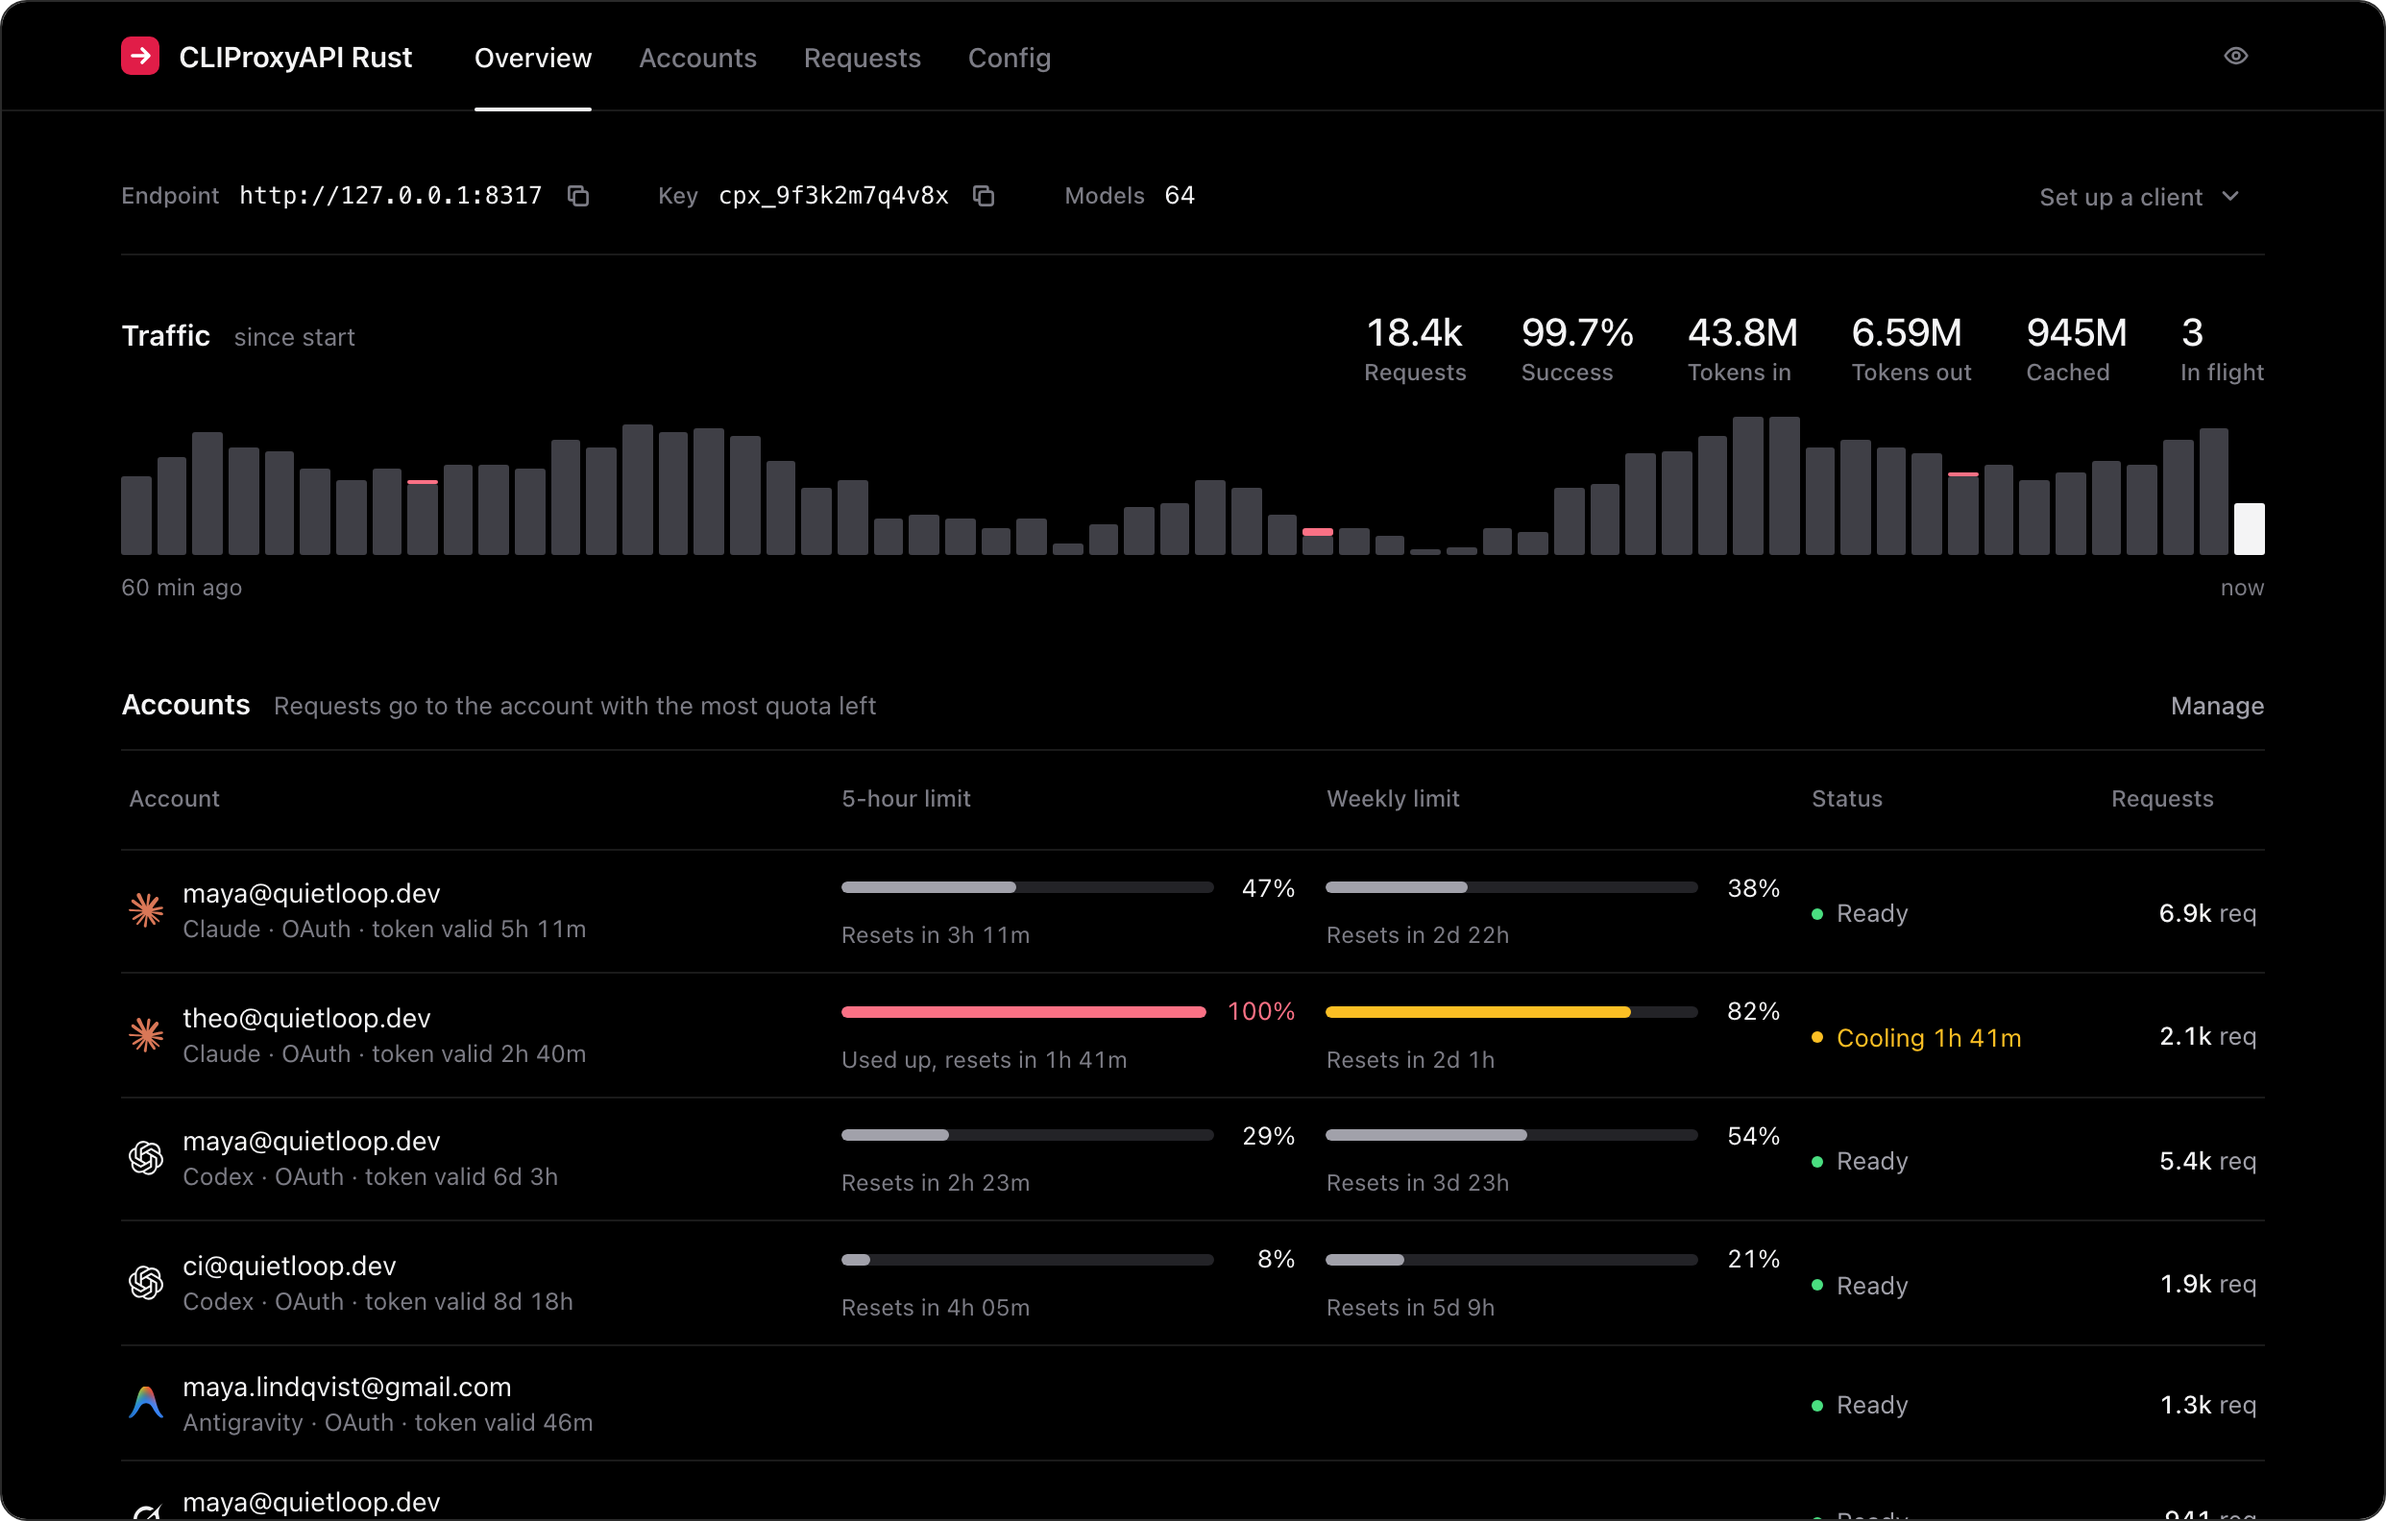
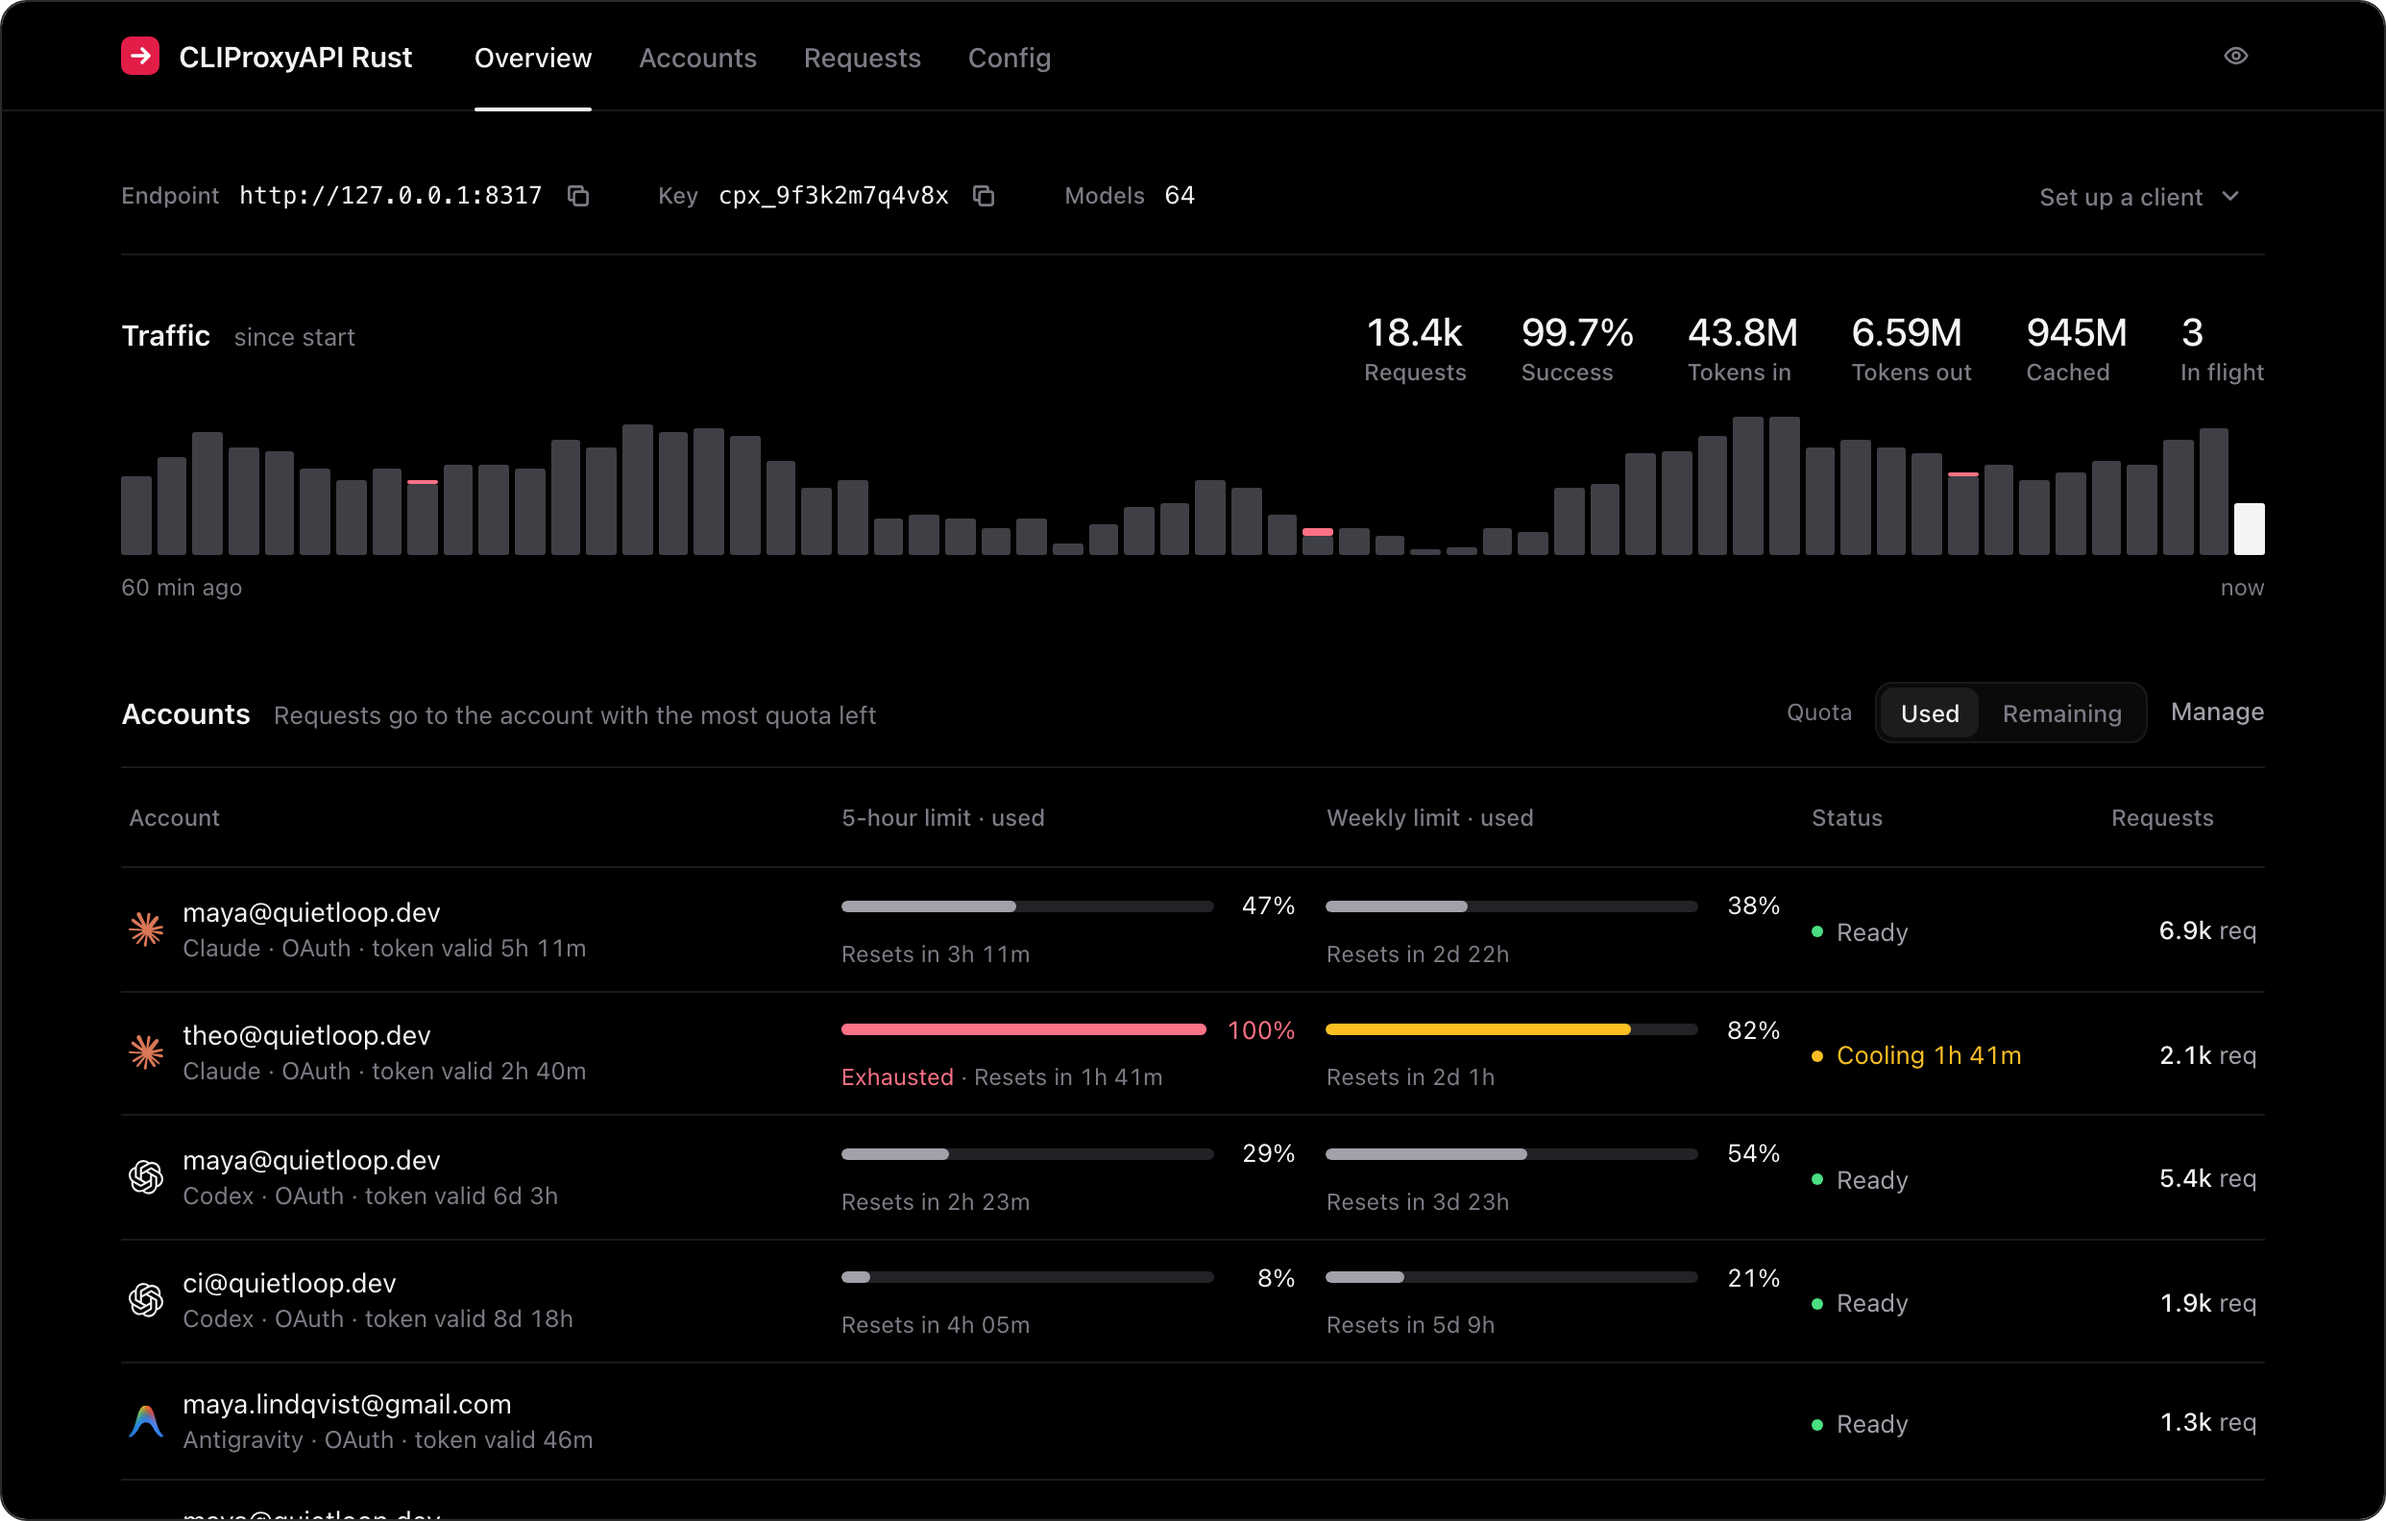
Document the settings page, quota switch and reset badges
DESIGN.md now covers the Config page layout, the used/remaining
meters, the opt-in reset badge and its panel, and the privacy toggle
on the YAML file section. README screenshots are regenerated.

diff --git a/DESIGN.md b/DESIGN.md
@@ -127,11 +127,13 @@ One system sans family for all UI; monospace only for real code and data (endpoi
 
 Single column, max width 1180px, 32px side padding (16px on mobile). Sticky 56px top bar with tabs and the privacy toggle; a red "Reconnecting" appears beside it only while the live connection is down (the brand mark gives way to the tabs under 480px). More space above a section title (32–40px) than below it (12px).
 
-Overview, top to bottom: a one-line endpoint strip (endpoint, key, model count, and a "Set up a client" disclosure that expands the client snippets; open until the first request, then remembered), traffic, accounts at full width, latest requests. The accounts table gives subscription limits their own columns (5-hour, weekly) so several subscriptions compare at a glance; accounts that report limits come first. On phones each row stacks: name and status, then the two meters side by side with inline labels.
+Overview, top to bottom: a one-line endpoint strip (endpoint, key, model count, and a "Set up a client" disclosure that expands the client snippets; open until the first request, then remembered), traffic, accounts at full width, latest requests. The accounts table gives subscription limits their own columns (5-hour, weekly) so several subscriptions compare at a glance; accounts that report limits come first. A Used / Remaining switch beside the section title flips every meter between the share used and the share left (remembered per browser, synced across tabs). On phones each row stacks: name and status, then the two meters side by side with inline labels ("5h used", "Week left").
+
+Config: a section list on the left (Server, Access, Routing, Connections, Providers, Models, Diagnostics, YAML file) beside one form at a time, with Save and Discard in a footer shared by every section. Fields sit in a two-column grid that collapses to one on phones; settings that need a restart carry a "Needs restart" note. YAML file is the whole config.yaml in the monospace editor, for anything the forms don't cover; form drafts and file drafts never stack.
 
 ## Elevation & Depth
 
-Flat. Depth comes only from `raise` surfaces and 1px `line` hairlines. No shadows on the page; the one floating element (copy feedback) uses a soft offset shadow.
+Flat. Depth comes only from `raise` surfaces and 1px `line` hairlines. No shadows on the page; the floating elements (copy feedback, the reset panel dialog over a dimmed `#000b` backdrop) use a soft offset shadow.
 
 ## Shapes
 
@@ -143,8 +145,9 @@ Flat. Depth comes only from `raise` surfaces and 1px `line` hairlines. No shadow
 - Tables: 12px fg-3 headers, 40px rows, 1px line separators, row hover `#070707`.
 - Status: dot + word ("Ready", "Cooling 4:12", "Disabled", "Error").
 - Provider logos: an inline SVG sprite (`ui/logos.svg`, from LobeHub Icons, MIT) used through `<use>`; 18px beside account names, 14px in routes, buttons and the segmented control, 20px in the sign-in picker. OpenAI-compatible groups get their vendor's logo when the group name gives it away (OpenRouter, Ollama, LM Studio, DeepSeek, Groq, Mistral, Qwen, Kimi), otherwise the generic mark. xAI API keys show the xAI mark; Grok sign-ins show Grok.
-- Privacy toggle: a 30px ghost icon button (eye / eye-off) at the right end of the bar, pressed state on `#18181b`, remembered per browser. When on, emails read `••••••@••••••`, key ends `••••…••••`, the client key `••••••••`, sign-ins without an email are hidden whole, home folders read `~`, and the config editor waits behind "Show config". Copy buttons still copy the real value.
-- Usage meters: 6px track (`meter-track`, 3px radius) with the used share in `fg-2`, `warn` from 75% and `err` from 95%; the percentage in `fg` with tabular numbers to the right, and "Resets in 2h 14m" in `fg-3` underneath. Meters for one window share a column.
+- Privacy toggle: a 30px ghost icon button (eye / eye-off) at the right end of the bar, pressed state on `#18181b`, remembered per browser. When on, emails read `••••••@••••••`, key ends `••••…••••`, the client key `••••••••`, sign-ins without an email are hidden whole, home folders read `~`, and the YAML file section waits behind "Show file"; secret fields in the settings forms stay masked. Copy buttons still copy the real value.
+- Usage meters: 6px track (`meter-track`, 3px radius) with the shown share (used or left) in `fg-2`; `warn` once a window is 75% used and `err` from 95%, in either mode, and a used-up window keeps a 1px `err` outline. Whole percentages in `fg` with tabular numbers to the right ("<1%" and ">99%" at the ends), "used" or "left" in the column heading, and "Resets in 2h 14m" in `fg-3` underneath. Meters for one window share a column; accounts without subscription limits leave the columns empty, and subscriptions that haven't reported yet show a dash.
+- Banked reset badge (only with `banked-resets` on): a 22px outline tag beside the account name (`line-strong` border, 6px radius, `fg-2`, refresh icon, "2 resets"), amber when an earlier request needs review, with a 5px amber dot when a reset expires within a day. It opens a native dialog panel (`raise`, 12px radius) listing grants, with Refresh and a single primary "Use 1 reset" that leads to a separate confirmation.
 - Live rows: a new request row lights up at full white and settles to its resting luminance over 1.8s (the one authored motion; disabled for reduced motion).
 
 ## Do's and Don'ts
